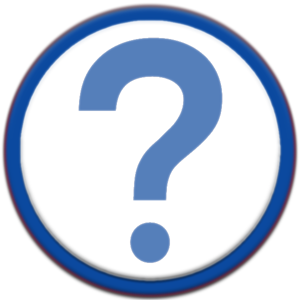
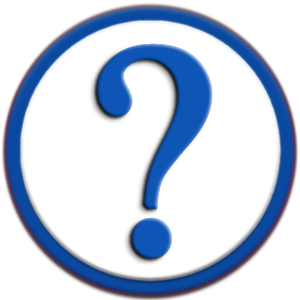
Resize Tip images

Changed region(s): [[0.24, 0.12, 0.75, 0.9], [0.39, 0.9, 0.48, 0.93], [0.54, 0.9, 0.57, 0.93]]

diff --git a/src/mysterychess/network/AbstractHost.java b/src/mysterychess/network/AbstractHost.java
@@ -63,6 +63,10 @@ public abstract class AbstractHost implements CommonRemote {
                     public void perform() throws Exception {
                         getOtherSide().message(msg);
                     }
+
+                    public String getDescription() {
+                        return "Send message";
+                    }
                 };
                 Util.execute(t);
             }
@@ -72,6 +76,10 @@ public abstract class AbstractHost implements CommonRemote {
 
                     public void perform() throws Exception {
                         getOtherSide().error(msg);
+                    }
+
+                    public String getDescription() {
+                        return "Send error";
                     }
                 };
                 Util.execute(t);
@@ -91,6 +99,10 @@ public abstract class AbstractHost implements CommonRemote {
                             ex.getMessage(), ex);
                             AbstractHost.this.match.receivedError("Connection refused. Guest may resigned.");
                         }
+                    }
+
+                    public String getDescription() {
+                        return "Piece moved";
                     }
                 };
                 Util.execute(t);
@@ -139,7 +151,10 @@ public abstract class AbstractHost implements CommonRemote {
             public void actionPerformed(ActionEvent e) {
                 String msg = (String) e.getSource();
                 try {
-                    getOtherSide().chat(msg);
+                    CommonRemote otherSide = getOtherSide();
+                    if (otherSide != null) {
+                        otherSide.chat(msg);
+                    }
                 } catch (RemoteException ex) {
                     Logger.getLogger(AbstractHost.class.getName()).log(Level.SEVERE, null, ex);
                 }
@@ -223,7 +238,7 @@ public abstract class AbstractHost implements CommonRemote {
         removeOtherSide();
     }
     
-        /**
+     /**
      * This method is called remotely.
      *
      * @throws RemoteException
@@ -231,17 +246,4 @@ public abstract class AbstractHost implements CommonRemote {
     public void gameOver(String msg) throws RemoteException {
         match.gameOver(msg, false);
     }
-
-//    /**
-//     * This method is called remotely.
-//     *
-//     * @param msg
-//     * @throws RemoteException
-//     */
-//    public void gameOverred(String msg) throws RemoteException {
-//        match.receivedMessage(msg);
-//        match.gameOverred(msg);
-//        gameOverred = true;
-//        ready = false;
-//    }
 }

diff --git a/src/mysterychess/util/Util.java b/src/mysterychess/util/Util.java
@@ -45,7 +45,7 @@ import mysterychess.model.Team;
  */
 public class Util {
 
-    private final static String VERSION = "2.0";
+    private final static String VERSION = "2.1";
     public final static String APPLICATION_NAME = "MysteryChess";
     public final static String RMI_SERVER_NAME = "MysteryChessServer";
     public static long PIECE_MOVE_EXPIRE_TIME = 2 * 60 * 1000; // 2 minutes
@@ -141,7 +141,7 @@ public class Util {
                 try {
                     // TODO write some log
                     Logger.getLogger(Util.class.getName()).info("Executing task "
-                            + task.toString());
+                            + task.getDescription());
                     task.perform();
                 } catch (Exception ex) {
                     Logger.getLogger(Util.class.getName()).log(Level.SEVERE, null, ex);
@@ -498,14 +498,19 @@ public class Util {
         return loadImage(fileName);
     }
 
+//    /** Returns an ImageIcon, or null if the path was invalid. */
+//    public static ImageIcon createImageIcon(String path, String description) {
+//        java.net.URL imgURL = Util.class.getResource(path);
+//        if (imgURL != null) {
+//            return new ImageIcon(imgURL, description);
+//        } else {
+//            System.err.println("Couldn't find file: " + path);
+//            return null;
+//        }
+//    }
+    
     /** Returns an ImageIcon, or null if the path was invalid. */
     public static ImageIcon createImageIcon(String path, String description) {
-        java.net.URL imgURL = Util.class.getResource(path);
-        if (imgURL != null) {
-            return new ImageIcon(imgURL, description);
-        } else {
-            System.err.println("Couldn't find file: " + path);
-            return null;
-        }
+        return new ImageIcon(loadImage(path), description);
     }
 }

diff --git a/src/mysterychess/view/ChatPanel.java b/src/mysterychess/view/ChatPanel.java
@@ -7,6 +7,7 @@ import java.awt.BorderLayout;
 import java.awt.Color;
 import java.awt.Dimension;
 import java.awt.GridLayout;
+import java.awt.Image;
 import java.awt.event.ActionEvent;
 import java.awt.event.ActionListener;
 import java.awt.event.MouseAdapter;
@@ -262,8 +263,10 @@ public class ChatPanel extends JPanel {
         }
 
         private JButton createButton(final int gifId) {
-            JButton b = new JButton(Util.createImageIcon("anim/" + gifId + ".gif", ""));
-            b.setMaximumSize(new Dimension(40, 40));
+//            JButton b = new JButton(Util.createImageIcon("anim/" + gifId + ".gif", ""));
+            JButton b = new JButton(new ImageIcon(Util.loadImage("anim/" + gifId + ".gif")
+                    .getScaledInstance(30, 30, Image.SCALE_DEFAULT)));
+            b.setMaximumSize(new Dimension(30, 30));
             b.setBackground(Color.white);
             b.addMouseListener(new MouseAdapter() {
                 @Override

diff --git a/src/mysterychess/network/RmiServer.java b/src/mysterychess/network/RmiServer.java
@@ -111,7 +111,9 @@ public class RmiServer extends AbstractHost //extends java.rmi.server.UnicastRem
         try {
             Match m = new Match(type, bottomTeam);
             match.setData(type, m.getWhiteTeam(), m.getBlackTeam(), m.getWhiteTeam());
-            client.setTable(TableDto.toDtoTable(match));
+            if (client != null) { 
+                client.setTable(TableDto.toDtoTable(match));
+            }
         } catch (RemoteException ex) {
             Logger.getLogger(RmiServer.class.getName()).log(Level.SEVERE, "Remote Exception", ex);
         }

diff --git a/src/mysterychess/view/ChessPanel.java b/src/mysterychess/view/ChessPanel.java
@@ -227,7 +227,6 @@ public class ChessPanel extends JPanel {
         private boolean pieceMoveTimeWarned = false;
         private JLabel pieceMoveTimeWarnLabel = new JLabel(
                 new ImageIcon(Util.loadImage("alarm.gif").getScaledInstance(30, 30, Image.SCALE_DEFAULT)));
-//        private boolean gameTimeWarned = false;
         private JLabel gameTimeWarnLabel = new JLabel(
                 new ImageIcon(Util.loadImage("monkey.gif").getScaledInstance(30, 30, Image.SCALE_DEFAULT)));
 

diff --git a/src/mysterychess/util/Task.java b/src/mysterychess/util/Task.java
@@ -11,4 +11,6 @@ package mysterychess.util;
  */
 public interface Task {
     public void perform() throws Exception;
+
+    public String getDescription();
 }
